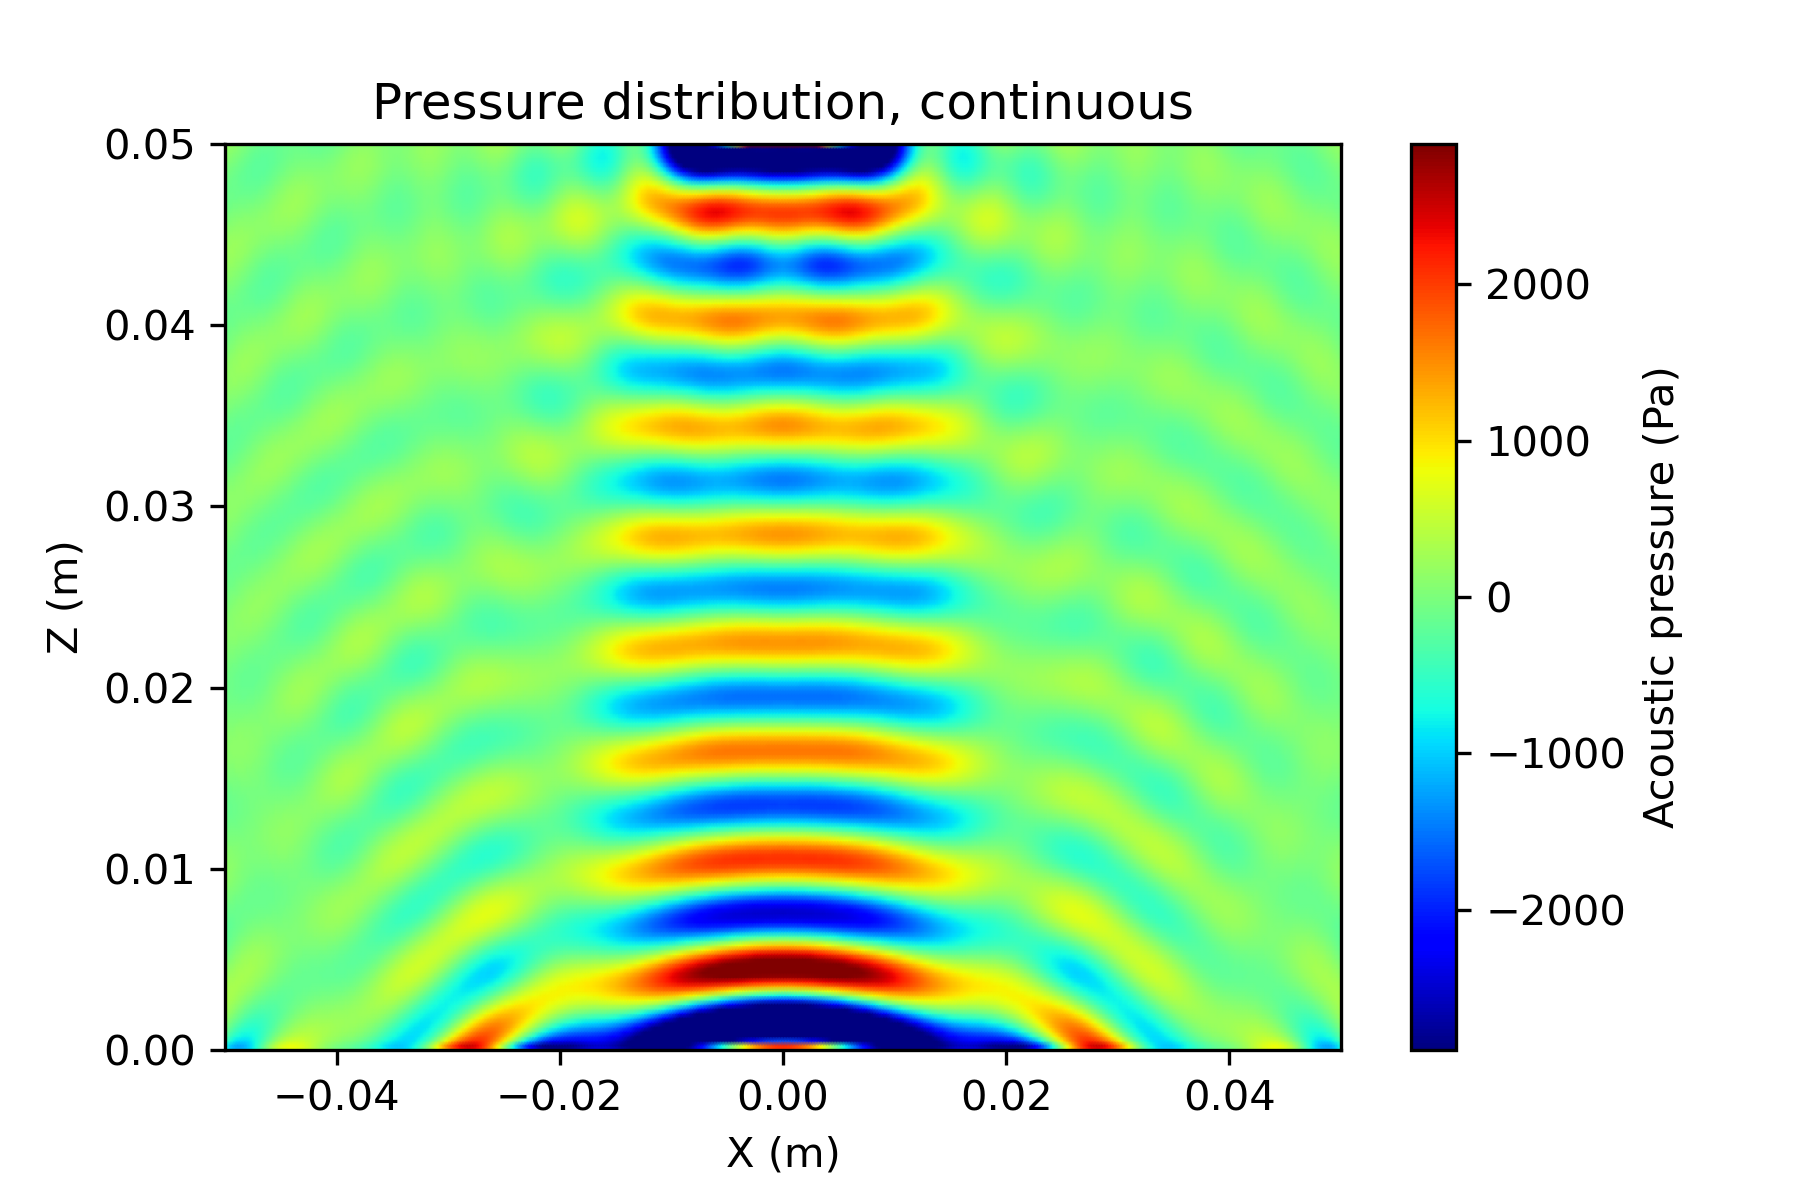
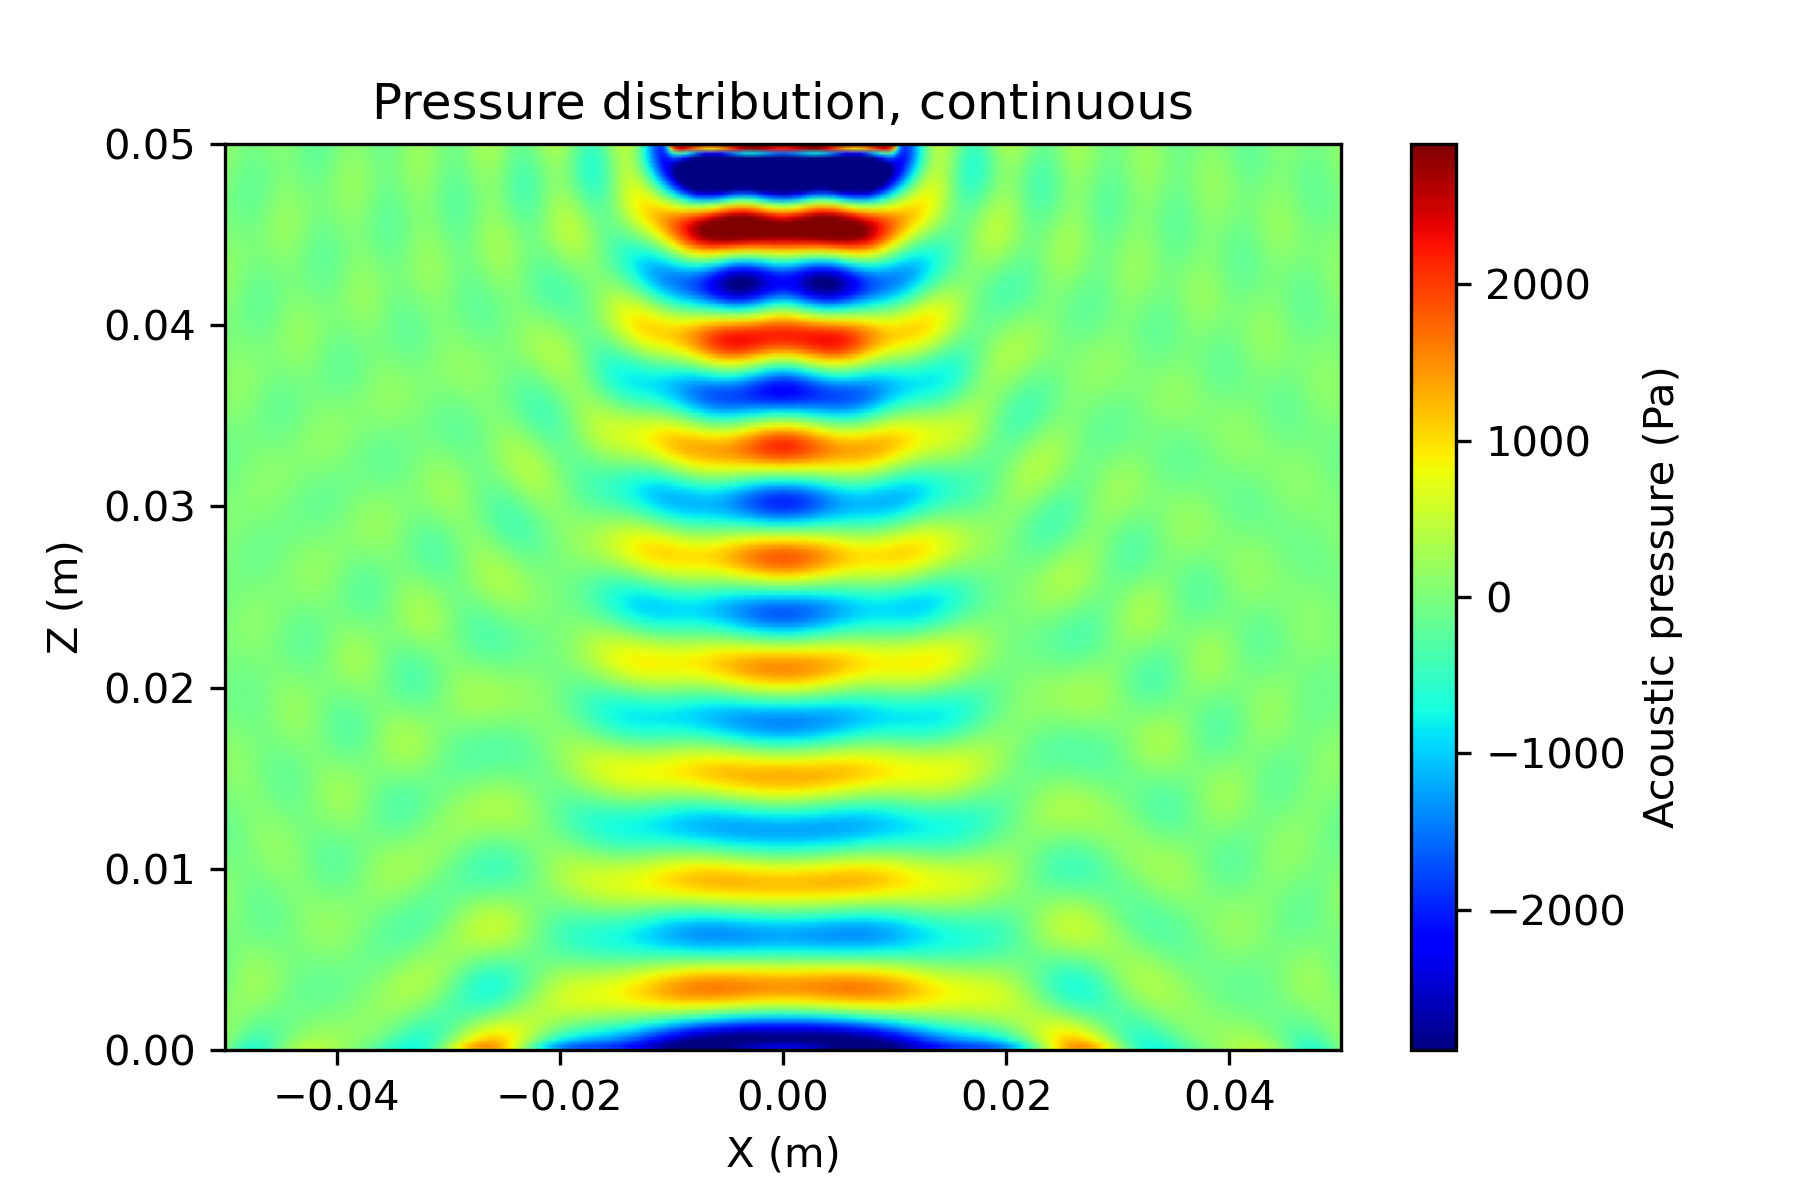
Correction of typo in V1.0

diff --git a/main.py b/main.py
@@ -157,10 +157,10 @@ for i in range(N):
     U[i] = U_0*np.exp(complex(0, omega))
 
 #%% Calculation of pressure, where each line is an order of approximation
-P = (D*E)*T_RM * \
-    (T_TR*U)+(D*E**2) * \
-        (T_TM*T_RT)*(T_TR*U)+(D*E**3)*T_RM * \
-            (T_TR*T_RT)*(T_TR*U)+(D*E**4)*(T_TM*T_RT)*(T_TR*T_RT)*(T_TR*U) 
+P = D * T_TM * U + \
+    (D*E**2) * (T_TM*T_RT) * (T_TR*U) + \
+            (D*E**3) * T_RM * (T_TR*T_RT) * (T_TR*U)+\
+                (D*E**4)*(T_TM*T_RT)*(T_TR*T_RT)*(T_TR*U)
 
 # Reshape of numpy array with vertical Z and horizontal X
 P2 = np.array(np.reshape(P, (len(x), len(z))))
